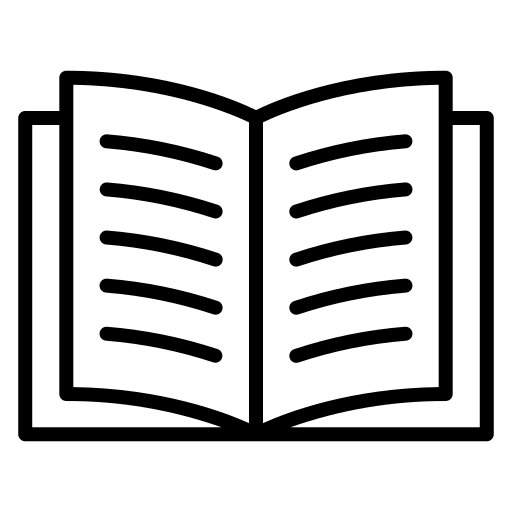
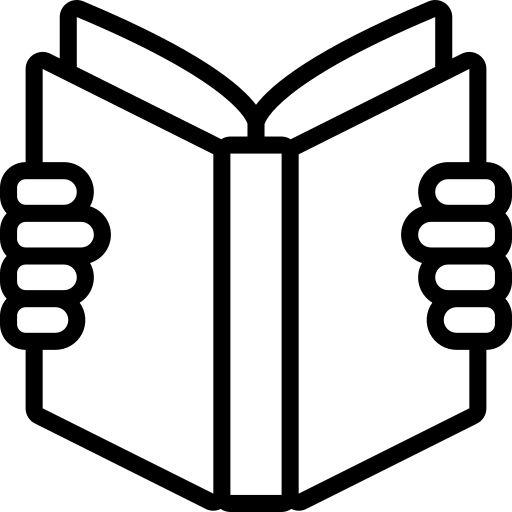
adds accordion title images, installs new expo-image library

diff --git a/components/settings/Accordion.tsx b/components/settings/Accordion.tsx
@@ -1,11 +1,14 @@
 import React, { useState } from "react";
-import { View, Text, TouchableOpacity, StyleSheet, TextInput } from "react-native";
+import { View, Text, TouchableOpacity, StyleSheet, TextInput, Image } from "react-native";
 import { FontAwesome, MaterialIcons } from '@expo/vector-icons';
 import { Colours } from "@styles/constants";
 import { addTagUnderTitle, deleteLabelItem, deleteTitle, useAppDispatch } from "@reduxStates/index";
+import { CATEGORY_IMAGES } from "@helpers/constants";
+import Title from "./accordion/Title";
 
 interface Category {
   title: string;
+  image: string;
   labels: string[];
 }
 
@@ -36,6 +39,11 @@ const Accordion: React.FC<AccordionProps> = ({ category, isLastItem }) => {
     dispatch(deleteTitle({ titleToDelete }));
   }
 
+  const getImageSource = (categoryId: string) => {
+    const selectedImage = CATEGORY_IMAGES.find((image) => image.id === categoryId);
+    return selectedImage ? selectedImage.source : null;
+  };
+
   return (
     <View 
       style={[
@@ -44,10 +52,8 @@ const Accordion: React.FC<AccordionProps> = ({ category, isLastItem }) => {
         isLastItem && styles.borderBottom
       ]}
     >
-      <TouchableOpacity onPress={handleToggle} style={styles.titleContainer}>
-        <Text style={styles.categoryTitle}>{category.title}</Text>
-        <FontAwesome name={isExpanded ? "caret-up" : "caret-down"} size={18} color={Colours.secondary} />
-      </TouchableOpacity>
+      <Title title={category.title} image={category.image} isExpanded expandAccordion={handleToggle} />
+      
       {isExpanded && (
         <>
           <View style={styles.menuContainer}>
@@ -85,8 +91,6 @@ const Accordion: React.FC<AccordionProps> = ({ category, isLastItem }) => {
               </TouchableOpacity>
             </View>
           </View>
-
-
         </>
       )}
     </View>
@@ -95,15 +99,17 @@ const Accordion: React.FC<AccordionProps> = ({ category, isLastItem }) => {
 
 const styles = StyleSheet.create({
   container: {
-    marginBottom: 16,
+    marginBottom: 10,
     paddingBottom: 5,
     borderBottomWidth: .5,
   },
   categoryTitle: {
     fontSize: 18,
     fontFamily: 'Courier Prime Bold',
-    marginBottom: 8,
-    color: Colours.secondary
+    // marginBottom: 8,
+    color: Colours.secondary,
+    // textAlign: 'center'
+
     // textDecorationLine: "underline",
   },
   borderBottom: {
@@ -150,7 +156,9 @@ const styles = StyleSheet.create({
   titleContainer: {
     flexDirection: 'row',
     justifyContent: 'space-between',
-    alignItems: 'flex-start',
+    // alignItems: 'flex-start',
+    // backgroundColor: 'green',
+    textAlign: 'center'
   },
   label: {
     fontSize: 16,
@@ -181,6 +189,16 @@ const styles = StyleSheet.create({
   },
   addButtonText: {
     color: 'white',
+  },
+  titleImageContainer: {
+    flexDirection: 'row',
+    alignItems: 'center'
+  },
+  categoryImage: {
+    width: 25,
+    height: 25,
+    marginRight: 10,
+    // backgroundColor: 'pink'
   },
 });
 

diff --git a/screens/Home.tsx b/screens/Home.tsx
@@ -2,19 +2,22 @@ import { useState, useEffect } from 'react';
 import { BarCodeScanner } from 'expo-barcode-scanner';
 import { View, StyleSheet, ImageBackground, Image, Pressable, Text } from 'react-native';
 import { StatusBar } from 'expo-status-bar';
-import { fetchPicker, readLibrary, cleanBook, setBookIsLoaded, setCameraPermission, useAppDispatch, fetchTags } from '@reduxStates/index';
+import { fetchPicker, readLibrary, cleanBook, setBookIsLoaded, setCameraPermission, useAppDispatch, fetchTags, RootState } from '@reduxStates/index';
 import { Colours } from '@styles/constants';
 import HomeButton from '@components/main/HomeButton';
 import { BACKGROUND } from '@helpers/constants';
 import { Ionicons } from '@expo/vector-icons';
+import { useSelector } from 'react-redux';
+import AsyncStorage from '@react-native-async-storage/async-storage';
 
 const Home = ({navigation}: any) => {
   const dispatch = useAppDispatch();
   const randomIndex = Math.floor(Math.random() * BACKGROUND.length);
   const [randomBackground] = useState(BACKGROUND[randomIndex]);
   const [isLove, setLove] = useState(false);
-
+  const { library } = useSelector((state: RootState) => state.library);
   useEffect(() => {
+    // console.log('my library: ', library)
     const getBarCodeScannerPermissions = async () => {
       const { status } = await BarCodeScanner.requestPermissionsAsync();
       if (status === 'granted') {
@@ -32,6 +35,19 @@ const Home = ({navigation}: any) => {
         dispatch(setBookIsLoaded(false));
       });
   }, [dispatch]);
+
+  useEffect(() => {
+    const fetchData = async () => {
+      try {
+        const libraryData = await AsyncStorage.getItem('library');
+        console.log('Library data:', libraryData);
+      } catch (error) {
+        console.error('Error reading from AsyncStorage:', error);
+      }
+    };
+
+    fetchData(); // Call the async function immediately
+  }, []);
 
   return (
     <View style={styles.container}>

diff --git a/components/settings/ImageSelector.tsx b/components/settings/ImageSelector.tsx
@@ -1,13 +1,20 @@
-import React, { useState } from "react";
+// ImageSelector.tsx
+
+import React from "react";
 import { View, Image, Pressable, StyleSheet, ImageSourcePropType, ScrollView, Text } from "react-native";
 import { CATEGORY_IMAGES } from '@helpers/constants';
 import { Colours } from "@styles/constants";
 
-const ImageSelector: React.FC = () => {
-  const [selectedImage, setSelectedImage] = useState<string | null>(null);
+interface ImageSelectorProps {
+  selectedImage: string;
+  onSelectImage: (id: string) => void;
+}
+
+const ImageSelector: React.FC<ImageSelectorProps> = ({ selectedImage, onSelectImage }) => {
 
   const handleImagePress = (imageId: string) => {
-    setSelectedImage(imageId === selectedImage ? null : imageId);
+    console.log(imageId)
+    onSelectImage(imageId !== '' ? imageId : '');
   };
 
   const renderImages = () => {
@@ -27,33 +34,28 @@ const ImageSelector: React.FC = () => {
   };
 
   return (
-    
-     <View style={styles.container}>
+    <View style={styles.container}>
       <Text style={styles.headerTxt}>add image to the category (or not)</Text>
       <ScrollView horizontal showsHorizontalScrollIndicator={false}>
         <View>
           <View style={styles.row}>{renderImages()}</View>
         </View>
       </ScrollView>
-      </View>
-    
+    </View>
   );
 };
 
 const styles = StyleSheet.create({
   container: {
-    marginTop: 25,
-    // backgroundColor: 'yellow',
+    marginVertical: 15,
   },
   headerTxt: {
     fontFamily: 'Courier Prime',
     color: Colours.secondary
   },
   row: {
-    // backgroundColor: 'blue',
     flexDirection: "row",
     justifyContent: "space-around",
-    // marginBottom: 10,
   },
   imageContainer: {
     borderWidth: 2,
@@ -64,7 +66,6 @@ const styles = StyleSheet.create({
   image: {
     width: 35,
     height: 35,
-    // borderRadius: 8,
   },
 });
 

diff --git a/components/settings/accordion/Title.tsx b/components/settings/accordion/Title.tsx
@@ -1,0 +1,65 @@
+import { TouchableOpacity, View, Image, Text, StyleSheet } from "react-native"
+import { FontAwesome } from '@expo/vector-icons';
+import { CATEGORY_IMAGES } from "@helpers/constants";
+import { Colours } from "@styles/constants";
+
+interface TitleTypes {
+  title: string;
+  image: string;
+  isExpanded: boolean;
+  expandAccordion: () => void;
+}
+
+const Title: React.FC<TitleTypes> = ({ title, image, isExpanded, expandAccordion }) => {
+  
+  const getImageSource = (categoryId: string) => {
+    const selectedImage = CATEGORY_IMAGES.find((image) => image.id === categoryId);
+    return selectedImage ? selectedImage.source : null;
+  };
+
+  return (
+    <TouchableOpacity onPress={expandAccordion} style={styles.titleContainer}>
+      <View style={styles.titleImageContainer}>
+        <Image
+          source={getImageSource(image)}
+          style={styles.categoryImage}
+        />
+        <Text style={styles.categoryTitle}>
+          {title}
+        </Text>
+      </View>
+      <FontAwesome name={isExpanded ? "caret-up" : "caret-down"} size={18} color={Colours.secondary} />
+    </TouchableOpacity>
+  )
+}
+
+export default Title;
+
+const styles = StyleSheet.create({
+  categoryTitle: {
+    fontSize: 18,
+    fontFamily: 'Courier Prime Bold',
+    // marginBottom: 8,
+    color: Colours.secondary,
+    // textAlign: 'center'
+
+    // textDecorationLine: "underline",
+  },
+  titleContainer: {
+    flexDirection: 'row',
+    justifyContent: 'space-between',
+    // alignItems: 'flex-start',
+    // backgroundColor: 'green',
+    textAlign: 'center'
+  },
+  titleImageContainer: {
+    flexDirection: 'row',
+    alignItems: 'center'
+  },
+  categoryImage: {
+    width: 25,
+    height: 25,
+    marginRight: 10,
+    // backgroundColor: 'pink'
+  },
+})

diff --git a/helpers/constants.ts b/helpers/constants.ts
@@ -41,11 +41,19 @@ export const CATEGORY_IMAGES = [
   { id: 'img5', source: require("@assets/genre.png") },
   { id: 'img6', source: require("@assets/glasses.png") },
   { id: 'img7', source: require("@assets/language.png") },
-  { id: 'img8', source: require("@assets/open-book.png") },
+  { id: 'img8', source: require("@assets/openbook.png") },
   { id: 'img9', source: require("@assets/reader.png") },
   { id: 'img10', source: require("@assets/science.png") },
   { id: 'img11', source: require("@assets/tech.png") },
   { id: 'img12', source: require("@assets/wizard.png") },
+  { id: 'img13', source: require("@assets/knight.png") },
+  { id: 'img14', source: require("@assets/writing.png") },
+  { id: 'img15', source: require("@assets/magician.png") },
+  { id: 'img16', source: require("@assets/science-fiction.png") },
+  { id: 'img17', source: require("@assets/feather.png") },
+  { id: 'img18', source: require("@assets/open-book.png") },
+  { id: 'img19', source: require("@assets/library-books.png") },
+
 ]
 
 export const randomBookNotFoundMessage = bookNotFoundMessages[Math.floor(Math.random() * bookNotFoundMessages.length)];

diff --git a/reduxStates/slices/librarySlice.tsx b/reduxStates/slices/librarySlice.tsx
@@ -5,6 +5,7 @@ import { mainUrl } from '../../server-location';
 import { BookType } from "./bookSlice";
 import { handleSort, searchLibrary } from "./helper";
 import { useAppDispatch } from '@reduxStates/store';
+import AsyncStorage from '@react-native-async-storage/async-storage';
 
 const URL = mainUrl();
 
@@ -75,6 +76,16 @@ const initialState: libraryTypes = {
   searchQuery: ''
 }
 
+const storeData = async (data: any) => {
+  try {
+    const serializedData = JSON.stringify(data);
+    await AsyncStorage.setItem('library', serializedData);
+    console.log('Data stored successfully');
+  } catch (error) {
+    console.error('Error storing data:', error);
+  }
+};
+
 export const readLibrary = createAsyncThunk(
   '/api/library',
   async (_, { rejectWithValue, dispatch }) => {
@@ -85,6 +96,8 @@ export const readLibrary = createAsyncThunk(
 
       dispatch(sortLibraryByTitle(response.data));
       dispatch(sortLibraryByAuthor(response.data));
+
+      // storeData(response.data)
       return response.data;
     } catch(err) {
       return rejectWithValue(err)

diff --git a/components/settings/Tags.tsx b/components/settings/Tags.tsx
@@ -15,11 +15,14 @@ import ImageSelector from "./ImageSelector";
 const Tags = () => {
   const { tags } = useSelector((state: RootState) => state.tags);
   const [newTitle, setNewTitle] = useState('');
+  const [selectedImage, setSelectedImage] = useState<string>('');
   const dispatch = useAppDispatch();
 
   const handleAddTitle = () => {
-    dispatch(addTitle({ newTitle }));
+    console.log(selectedImage)
+    dispatch(addTitle({ newTitle, image: selectedImage }));
     setNewTitle('');
+    setSelectedImage('');
   };
 
   return (
@@ -48,7 +51,7 @@ const Tags = () => {
   
   
   
-  <ImageSelector />
+    <ImageSelector selectedImage={selectedImage} onSelectImage={setSelectedImage} />
 
  
       <View style={styles.newTitleContainer}>

diff --git a/reduxStates/slices/tagsSlice.tsx b/reduxStates/slices/tagsSlice.tsx
@@ -6,6 +6,7 @@ const URL = mainUrl();
 
 type TagType = {
   title: string,
+  image: string,
   labels: string[]
 };
 
@@ -53,14 +54,13 @@ export const updateTags = createAsyncThunk(
   }
 );
 
-
 export const tagsSlice = createSlice({
   name: 'tags',
   initialState,
   reducers: {
     addTitle: (state, action) => {
-      const { newTitle } = action.payload;
-      const updatedTags = [...state.tags, { title: newTitle, labels: [] }];
+      const { newTitle, image } = action.payload;
+      const updatedTags = [...state.tags, { title: newTitle, labels: [], image }];
 
       return {
         ...state,
